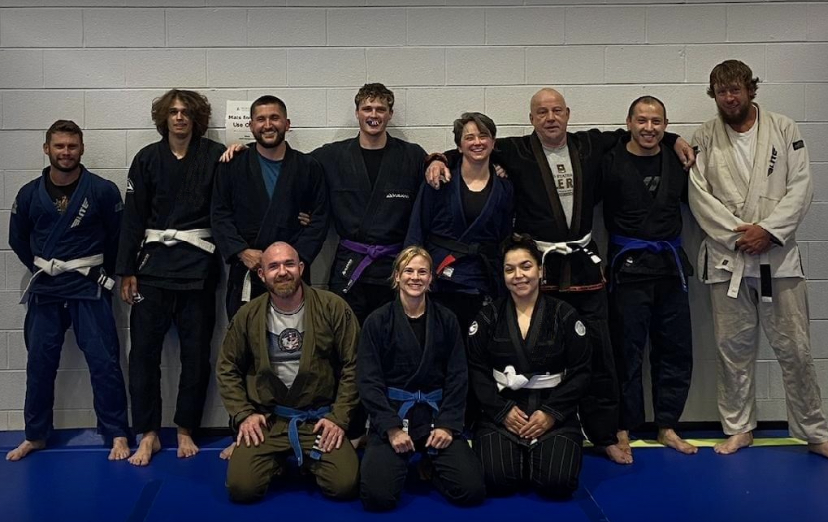
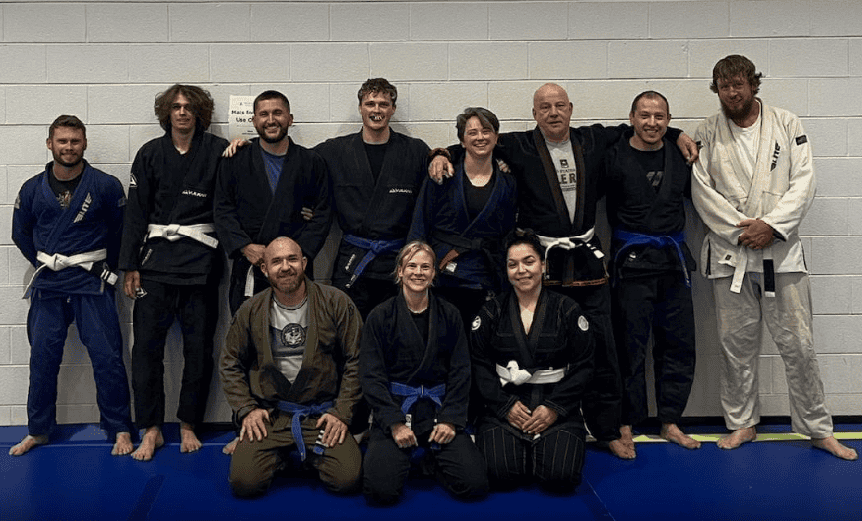
Update to about wording

diff --git a/index.html b/index.html
@@ -97,7 +97,7 @@
         </div>
         <!--Right Col-->
         <div class="w-full md:w-1/2 py-6 text-center" style="padding-left: 24px !important; padding-right: 24px !important;">
-          <img class="w-full md:w-4/5 z-50" style="border-top-left-radius: 0px !important; border-top-right-radius: 20px; border-bottom-right-radius: 0px !important; border-bottom-left-radius: 20px;" src="images/group.png" />
+          <img class="w-full md:w-4/5 z-50 rounded-lg" style="border-radius: 180px;" src="images/hero.jpg" />
         </div>
     </div>
     <div class="relative -mt-12 lg:-mt-24">
@@ -129,17 +129,21 @@
         </div>
         <div class="flex flex-wrap">
           <div class="w-5/6 sm:w-1/2 p-6">
-            <h3 class="text-3xl text-gray-800 font-bold leading-none mb-3">
-              Our Mission
-            </h3>
             <p class="text-gray-600 mb-8">
-              We aim to provide accessible, low-cost Jiu Jitsu and grappling instruction, facilities, and equipment for individuals aged 14 and above in the Appalachian region.
-              <br />
-              <br />
+              We founded the Appalachian Grapplers Association in early 2024 out of our passion for Jiu Jitsu and a desire to share it with our community. We envisioned a welcoming place where people come together to train, learn from each other, and grow — all at a low cost and with no contracts.
+            </p>
+            <p class="text-gray-600 mb-8">
+              Our dedicated instructors volunteer their time to teach classes and oversee open mat sessions, ensuring that all proceeds go back into the club. This allows us to maintain a high-quality training environment without financial barriers.
+            </p>
+            <p class="text-gray-600 mb-8">
+              Whether you're looking to learn self-defense, improve your fitness, or become part of a supportive and tight-knit community, we're here for it. Join us, and let's push each other to new heights.
+            </p>
+            <p class="text-gray-600 mb-8">
+              See you on the mats!
             </p>
           </div>
           <div class="w-full sm:w-1/2 p-6">
-            <img src="images/mission-meme.png" style="border-top-left-radius: 0px !important; border-top-right-radius: 20px; border-bottom-right-radius: 0px !important; border-bottom-left-radius: 20px;"  alt="mission meme" class="w-full sm:h-64 mx-auto" />
+            <img src="images/group.png" style="border-top-left-radius: 0px !important; border-top-right-radius: 20px; border-bottom-right-radius: 0px !important; border-bottom-left-radius: 20px;"  alt="mission meme" class="w-full sm:h-70 mx-auto" />
           </div>
         </div>
         <div class="flex flex-wrap flex-col-reverse sm:flex-row">
